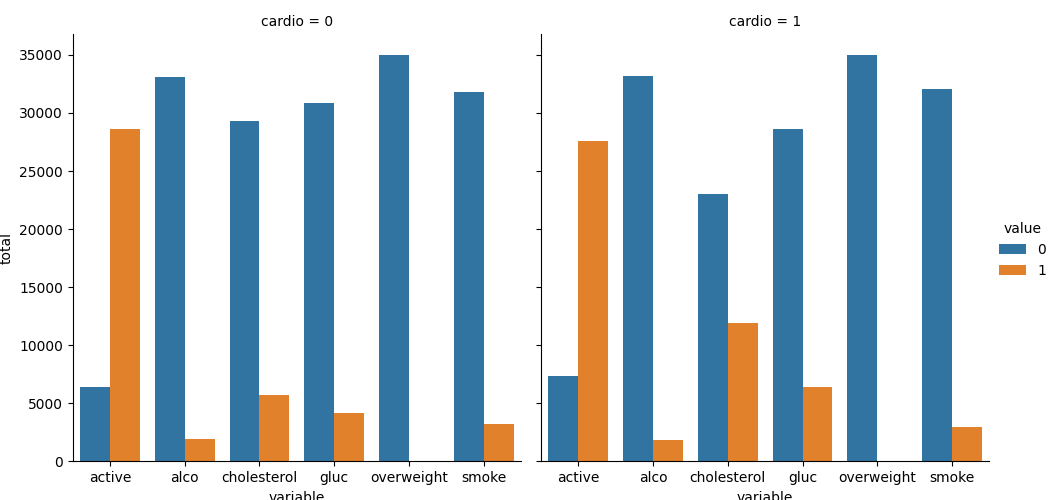
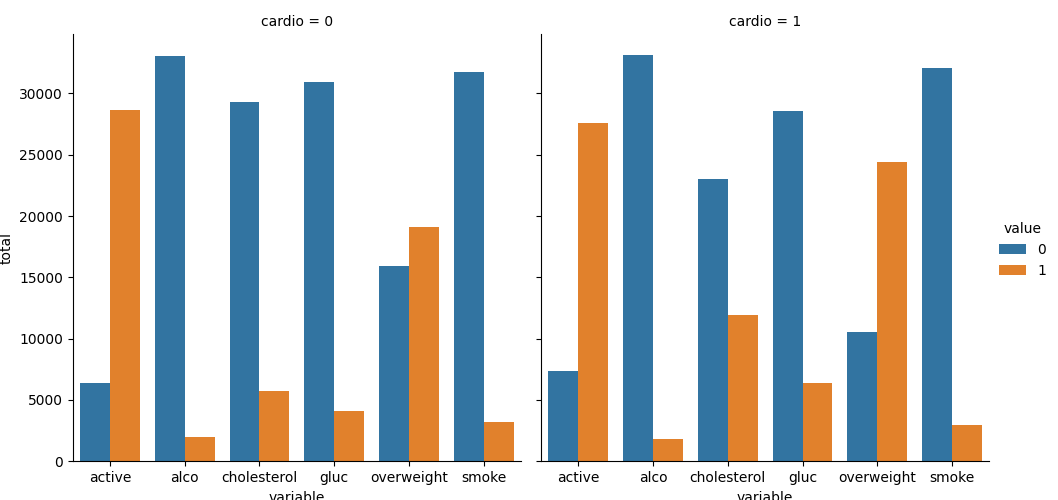
added heatmap

diff --git a/Medical Data Visualizer/medical_data_visualizer.py b/Medical Data Visualizer/medical_data_visualizer.py
@@ -7,15 +7,14 @@ import numpy as np
 df = pd.read_csv('medical_examination.csv')
 
 # Add 'overweight' column
-BMI = df['weight']/(df['height']*100)**2
-overweight_col = []
-
-for item in BMI:
-    if item > 25:
-        overweight_col.append(1)
-    else:
-        overweight_col.append(0)
-df['overweight'] = overweight_col
+BMI = df.weight / (df.height/100)**2
+ow =[]
+for bmi in BMI:
+  if bmi > 25:
+    ow.append(1)
+  else:
+    ow.append(0)
+df['overweight'] = ow
 
 # Normalize data by making 0 always good and 1 always bad. If the value of 'cholesterol' or 'gluc' is 1,
 # make the value 0. If the value is more than 1, make the value 1.
@@ -50,23 +49,37 @@ def draw_cat_plot():
 # Draw Heat Map
 def draw_heat_map():
     # Clean the data
-    df_heat = None
+    df_heat = df[
+        (df['ap_lo'] <= df['ap_hi'])
+        & (df['height'] >= df['height'].quantile(0.025))
+        & (df['height'] <= df['height'].quantile(0.975))
+        & (df['weight'] >= df['weight'].quantile(0.025))
+        & (df['weight'] <= df['weight'].quantile(0.975))
+    ]
 
     # Calculate the correlation matrix
-    corr = None
+    corr = df_heat.corr()
 
     # Generate a mask for the upper triangle
-    mask = None
-
-
+    mask = np.zeros_like(corr, dtype=bool)
+    mask[np.triu_indices_from(mask)] = True
 
     # Set up the matplotlib figure
-    fig, ax = None
+    fig, ax = plt.subplots(figsize=(10,10))
 
     # Draw the heatmap with 'sns.heatmap()'
-
-
+    sns.heatmap(
+        corr,
+        annot=True,
+        mask=mask,
+        fmt='.1f',
+        vmax=.3,
+        center=0,
+        square=True,
+        linewidths=.5
+    )
 
     # Do not modify the next two lines
     fig.savefig('heatmap.png')
     return fig
+

diff --git a/Medical Data Visualizer/main.py b/Medical Data Visualizer/main.py
@@ -4,7 +4,7 @@ from unittest import main
 
 # Test your function by calling it here
 medical_data_visualizer.draw_cat_plot()
-#medical_data_visualizer.draw_heat_map()
+medical_data_visualizer.draw_heat_map()
 
-"""# Run unit tests automatically
-main(module='test_module', exit=False)"""
+# Run unit tests automatically
+main(module='test_module', exit=False)
